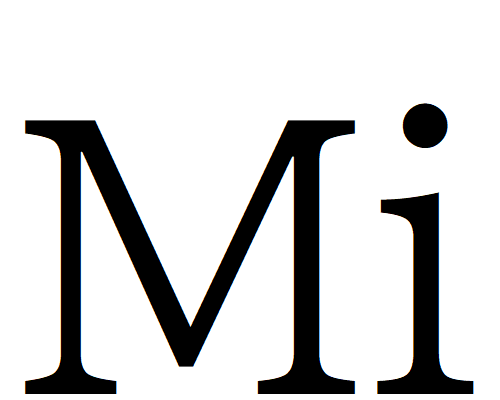
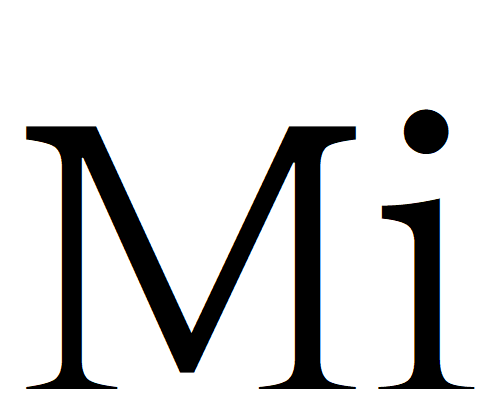
index.html更新

diff --git a/css/style.css b/css/style.css
@@ -31,13 +31,14 @@ main{
 /* メニュー */
 nav{
   height: 100%;
+  width: 300px;
   background-color: #000000;
   color: #FFFFFF;
   position: fixed;
   left: -300px;
 }
 nav li{
-  width: 100%;
+  width: 275px;
   margin: 0 auto;
   padding: 10px;
   color: #FFFFFF;
@@ -61,16 +62,6 @@ nav:after {
   border-right: 10px solid transparent;
   border-bottom: 10px solid transparent;
 }
-@media (min-width: 481px) {
-  nav{
-    width: 300px;
-  }
-}
-@media (max-width: 480px) {
-  nav{
-    width: 50%;
-  }
-}
 
 /* index.html */
 .main-top{
@@ -86,24 +77,37 @@ nav:after {
   width: 100%;
 }
 .content0{
-  display: flex;
+  background-image: url(../img/bg01.JPG);
+  background-size: cover;
 }
 .content0 div:nth-child(1) {
-  width: 90%;
-  text-align: center;
+  width: 100%;
+  height: 100%;
 }
-.content0 div:nth-child(1) img{
-  width: auto;
-  height: 90%;
+.content0 div:nth-child(1) p{
+  font-size: 24em;
+  text-align: center;
+  font-family: 'MS serif', 'Times New Roman', Georgia, 'Palatino Linotype', serif;
 }
 .content0 div:nth-child(2) {
-  width: 10%;
+  width: 64px;
   position: absolute;
-  bottom: 10%;
+  bottom: 10px;
   right: 10px;
 }
 .content0 div:nth-child(2) img{
-  display: block;
   width: 64px;
   height: 64px;
+}
+
+.content3{
+  text-align: center;
+  background-color: #DDDDDD;
+}
+.content3 p{
+  font-size: 3em;
+  padding-top: 50px;
+}
+.content3 img{
+  width: 50%;
 }

diff --git a/index.html b/index.html
@@ -35,12 +35,12 @@
     <div class="content-top">
       <div class="contents content0" data-section-name="section0">
         <div>
-          <img src="img/moji3.png">
+          <p>Mi</p>
         </div>
         <div>
-          <img src="img/icon_twitter.png">
-          <img src="img/icon_github.png">
-          <img src="img/icon_gmail.png">
+          <a href="https://twitter.com/c6tower" target="_blank" title="https://twitter.com/c6tower"><img src="img/icon_twitter.png"></a>
+          <a href="https://github.com/Koba252" target="_blank" title="https://github.com/Koba252"><img src="img/icon_github.png"></a>
+          <a href="mailto:clock2elizabeth@gmail.com" title="clock2elizabeth@gmail.com"><img src="img/icon_gmail.png"></a>
         </div>
       </div>
       
@@ -54,9 +54,9 @@
         <p>ビラやTシャツのデザインアーカイブ</p>
       </div>
 
-      <div class="contents" data-section-name="section3">
-        <h2>スタンプカードアプリ</h2>
-        <p>作成中だよ</p>
+      <div class="contents content3" data-section-name="section3">
+        <p>スタンプカードアプリ<br>（作成中）</p>
+        <img src="./img/icon_xamarin.png">
       </div>
     </div>
   </main>
